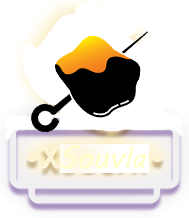
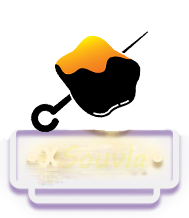
SouvlaSign

diff --git a/src/pages/bar/index.tsx b/src/pages/bar/index.tsx
@@ -219,7 +219,7 @@ export default function Stake() {
           </div>
           <div className="hidden px-8 ml-6 md:block w-72">
             <Image
-              src="https://app.sushi.com/images/xsushi-sign.png"
+              src="https://raw.githubusercontent.com/ninja-1337/souvlaswap-interface/4bf5c4bab246964655e6b89af052e14be90b6165/public/images/xsushi-sign.png"
               alt="xSUSHI sign"
               width="100%"
               height="100%"
